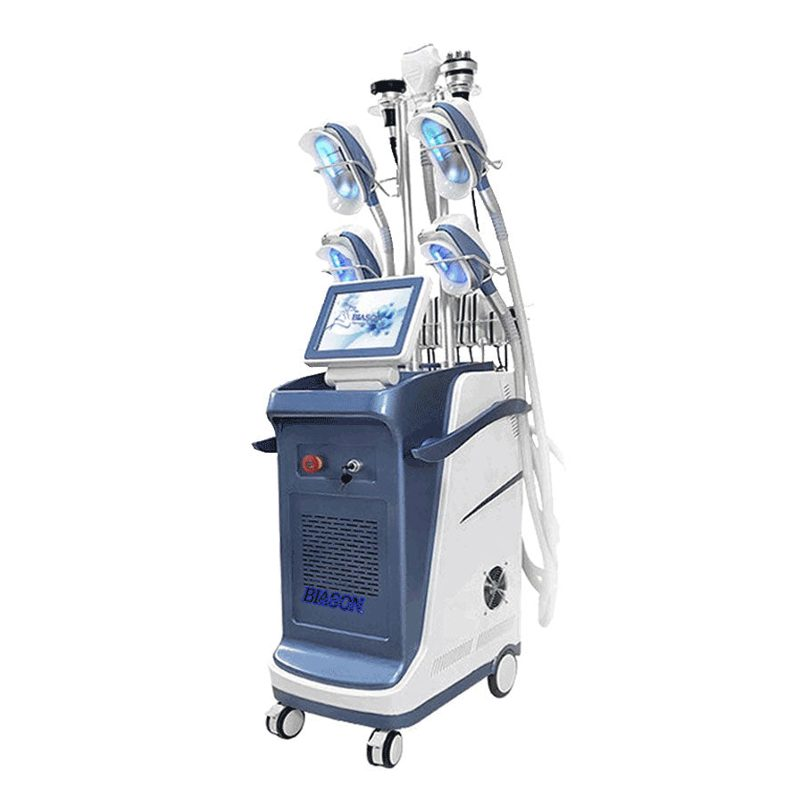
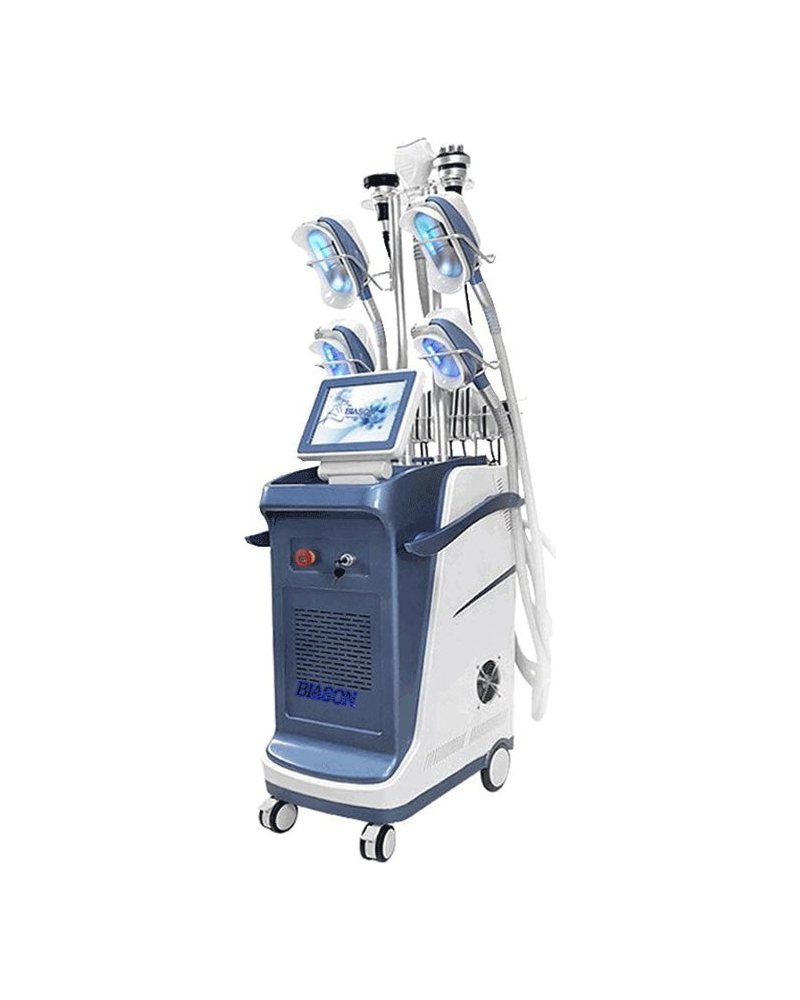
Blason grid: nine main machines, photos fill the tile, "And more" tile opens the quiz
The img height attribute was beating the CSS (height:auto was missing), so every
tile stretched to 800px of white. Photos are trimmed and refit to 4:5.

Changed region(s): [[0.3125, 0.0625, 0.6875, 0.9688]]

diff --git a/blason/index.html b/blason/index.html
@@ -76,13 +76,17 @@ h1,h2,h3{font-weight:700;line-height:1.1;letter-spacing:-.02em;text-wrap:balance
 .floor .lede{font-size:clamp(17px,1.6vw,20px);color:var(--ink-2);max-width:60ch;margin-top:12px}
 .grid{display:grid;grid-template-columns:repeat(2,1fr);gap:14px;margin-top:28px}
 @media(min-width:640px){.grid{grid-template-columns:repeat(3,1fr)}}
-@media(min-width:900px){.grid{grid-template-columns:repeat(4,1fr)}}
+@media(min-width:900px){.grid{grid-template-columns:repeat(5,1fr)}}
 .tile{display:block;width:100%;text-align:left;font:inherit;text-decoration:none;color:var(--ink);background:var(--bg-2);border:1px solid var(--line);border-radius:10px;overflow:hidden;padding:0;transition:border-color .2s,transform .2s}
 .tile:hover{border-color:var(--navy);transform:translateY(-2px)}
-.tile img{width:100%;aspect-ratio:1/1;object-fit:contain;background:#fff;padding:8px}
-.tile figcaption{padding:12px 14px 14px}
-.tile b{display:block;font-size:16px;font-weight:700;line-height:1.3}
-.tile small{display:block;font-size:13.5px;color:var(--muted);margin-top:3px}
+.tile img{width:100%;height:auto;aspect-ratio:4/5;object-fit:cover;background:#fff;display:block}
+.tile figcaption{padding:10px 12px 12px;border-top:1px solid var(--line)}
+.tile b{display:block;font-size:14px;font-weight:700;line-height:1.3}
+.tile small{display:block;font-size:12.5px;color:var(--muted);margin-top:2px}
+.tile.more{background:var(--navy);color:#fff;border-color:var(--navy);display:flex;flex-direction:column;justify-content:space-between;padding:18px;min-height:100%}
+.tile.more b{font-size:20px;line-height:1.15;color:#fff}
+.tile.more small{color:rgba(255,255,255,.8);font-size:14px;margin-top:10px}
+.tile.more .arrow{font-size:28px;line-height:1;align-self:flex-end}
 .floor .after{margin-top:18px;font-size:15px;color:var(--muted)}
 
 /* social */
@@ -281,15 +285,12 @@ var MACHINES = [
   ['galaxy',   'Scala Ice Galaxy',          'Diode laser, 4 wavelengths',     'Láser diodo, 4 longitudes',        'laser_hair'],
   ['fashion',  'Scala Ice Fashion + YAG',   'Hair removal, pigment, tattoo',  'Depilación, manchas, tatuajes',    'laser_hair'],
   ['planet',   'Scala Ice Planet',          'High-volume hair removal',       'Depilación de alto volumen',       'laser_hair'],
-  ['modena',   'Scala Ice Modena',          'Diode laser, entry model',       'Láser diodo, modelo de entrada',   'laser_hair'],
   ['co2',      'CO2 Fractional',            'Scars, wrinkles, texture',       'Cicatrices, arrugas, textura',     'resurfacing'],
   ['pico',     'PicoLaser',                 'Tattoo and pigment removal',     'Tatuajes y manchas',               'tattoo'],
   ['hidra',    'Hidra Acqua Skin',          'Hydrodermabrasion facials',      'Hidrodermoabrasión',               'facials'],
   ['cold',     'Cold Therapy',              'Fat freezing + RF + cavitation', 'Criolipólisis + RF + cavitación',  'body'],
   ['destroy',  'Cavitation Destroy + RF',   'Body contouring',                'Moldeo corporal',                  'body'],
   ['bella',    'Bella Corpo Roller & Vacuum', 'Cellulite, drainage',          'Celulitis, drenaje',               'body'],
-  ['facial17', '17-Function Facial Machine', 'One facial station',            'Una estación facial',              'facials'],
-  ['led',      '7-Color LED System',        'LED + RF + microcurrent',        'LED + RF + microcorriente',        'facials'],
 ];
 
 /* ------------------------------------------------------------------------ */
@@ -323,6 +324,7 @@ var T = {
     ctaMicro: 'Five quick questions, then pick a time with Manuel, the owner.',
     floorTtl: 'What Manuel carries',
     floorLede: "Most of these are on the floor in Miami. Tap the one you're shopping for and the questions start there.",
+    moreTtl: 'And more', moreSub: 'LED, facial stations, beds, pressotherapy, microneedling. Take the two minutes and ask Manuel.',
     floorAfter: "In Florida, lasers, IPL and most energy devices have to run under a doctor, NP or PA. Facials and most body machines don't. Manuel tells you where your license lands.",
     socTtl: 'Watch the machines running on real clients',
     socP: 'Manuel posts from the showroom floor and from client visits. Have a look, then come back and pick your time.',
@@ -392,6 +394,7 @@ var T = {
     ctaMicro: 'Cinco preguntas rápidas y elija una hora con Manuel, el dueño.',
     floorTtl: 'Lo que Manuel trae',
     floorLede: 'La mayoría están en el showroom de Miami. Toque la que anda buscando y las preguntas empiezan por ahí.',
+    moreTtl: 'Y más', moreSub: 'LED, estaciones faciales, camillas, presoterapia, microagujas. Tome los dos minutos y pregúntele a Manuel.',
     floorAfter: 'En Florida, los láseres, la IPL y la mayoría de los equipos de energía trabajan bajo un médico, enfermera practicante o PA. Las faciales y la mayoría de las de cuerpo, no. Manuel le dice dónde cae su licencia.',
     socTtl: 'Vea las máquinas funcionando con clientas reales',
     socP: 'Manuel publica desde el showroom y desde las visitas a clientes. Véalo, y después vuelva y elija su hora.',
@@ -465,9 +468,9 @@ function applyLang() {
   }).join('');
   document.getElementById('grid').innerHTML = MACHINES.map(function (m) {
     return '<button type="button" class="tile" data-machine="' + m[0] + '" data-interest="' + m[4] + '">'
-      + '<figure><img src="/blason/machines/' + m[0] + '.jpg" alt="' + esc(m[1]) + '" loading="lazy" width="800" height="800">'
+      + '<figure><img src="/blason/machines/' + m[0] + '.jpg" alt="' + esc(m[1]) + '" loading="lazy" width="800" height="1000">'
       + '<figcaption><b>' + esc(m[1]) + '</b><small>' + esc(lang === 'es' ? m[3] : m[2]) + '</small></figcaption></figure></button>';
-  }).join('');
+  }).join('') + '<button type="button" class="tile more" data-machine="more" data-interest="notsure"><b>' + esc(t('moreTtl')) + '</b><small>' + esc(t('moreSub')) + '</small><span class="arrow">&rarr;</span></button>';
   document.querySelectorAll('.tile').forEach(function (a) {
     a.addEventListener('click', function () {
       track('cta_click', { answer: 'machine_' + a.getAttribute('data-machine') });
